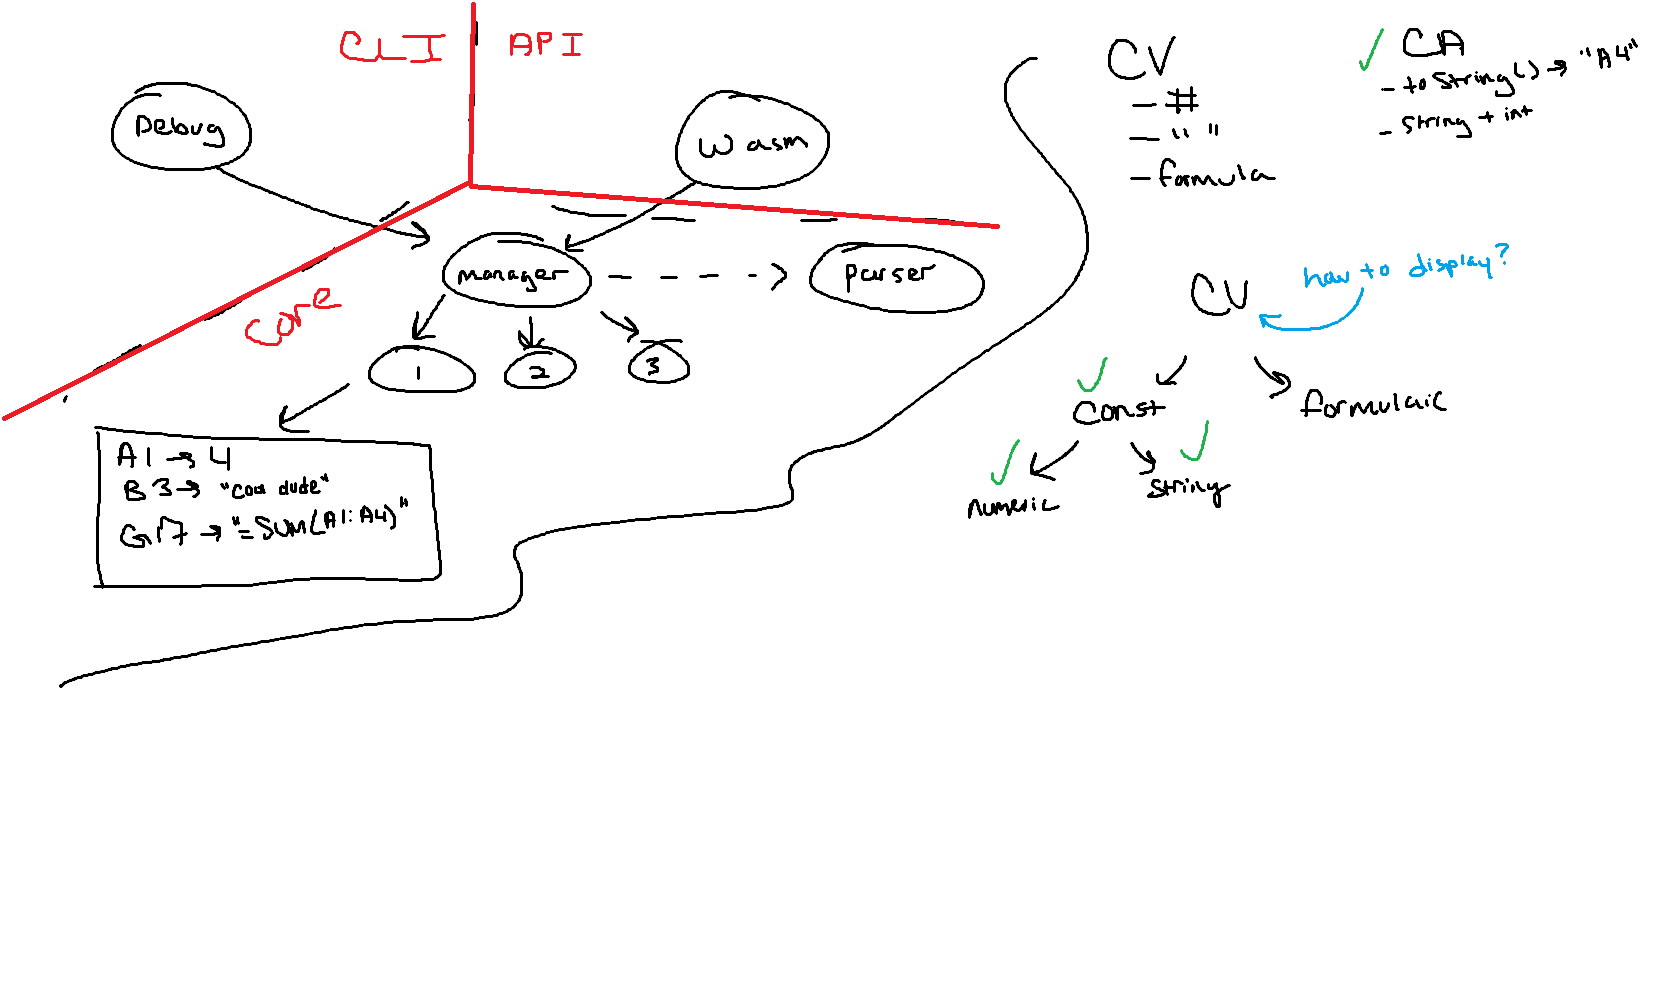
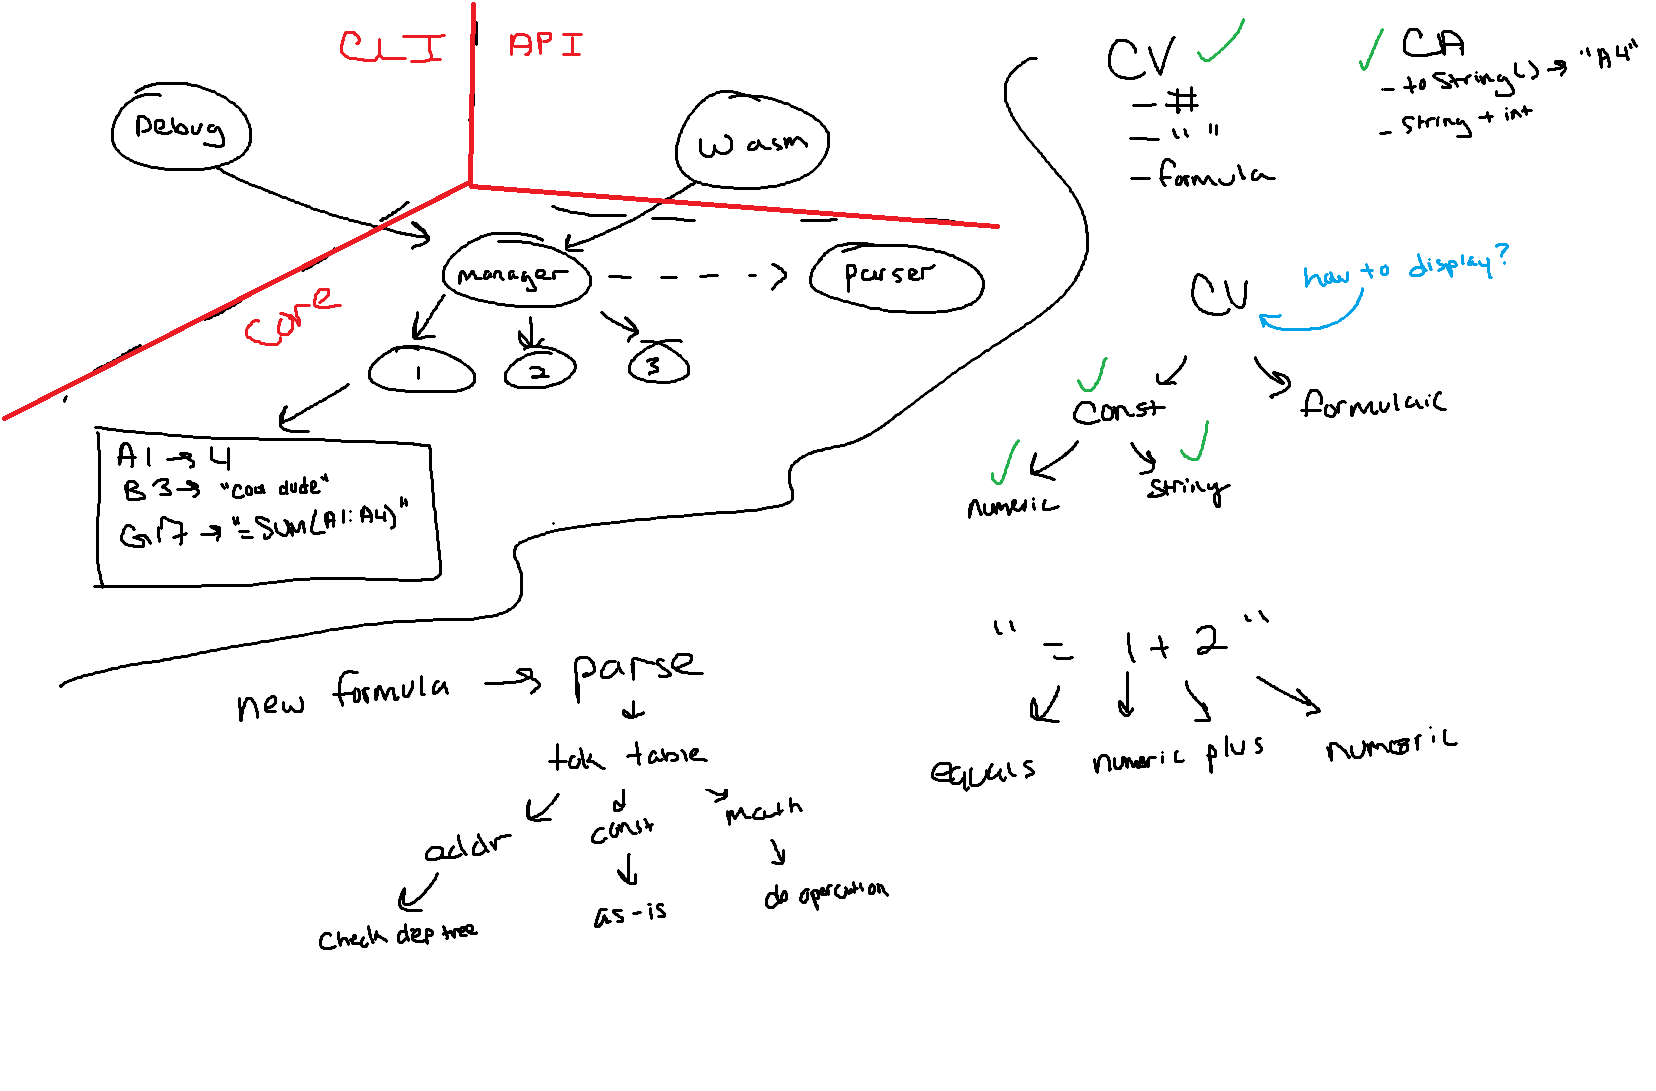
basic structure + design

diff --git a/src/parser/tokens/Token.h b/src/parser/tokens/Token.h
@@ -1,0 +1,22 @@
+#include "TokenType.h"
+
+#include <variant>
+#include <string>
+
+namespace Parser {
+
+	class Token {
+
+	public:
+		Token();
+
+		TokenType getType();
+		std::variant<std::string, double> getValue();
+
+	private:
+		TokenType m_type;
+		std::variant<std::string, double> m_value;
+
+	};
+
+}

diff --git a/src/parser/tokens/TokenType.h b/src/parser/tokens/TokenType.h
@@ -1,0 +1,11 @@
+#pragma once
+
+enum class TokenType {
+	Equals, // signifies the beginning of a formula
+	
+	// Tokens which are dynamic size
+	Numeric, // numbers like 1, 1.0, 1.235, -1
+	String, // any character or series of characters
+	
+	Plus, // addition operator
+};

diff --git a/src/parser/Parser.cpp b/src/parser/Parser.cpp
@@ -1,0 +1,16 @@
+#include "Parser.h"
+
+#include "../core/cell/types/NumericValue.h"
+
+namespace Parser {
+
+	Parser::Parser() {};
+
+	Cell::ConstantValue& Parser::evaluate(const Spreadsheet::Formula& formula) {
+
+		Cell::NumericValue val(0);
+		return val;
+
+	}
+
+}

diff --git a/src/parser/Parser.h b/src/parser/Parser.h
@@ -1,0 +1,16 @@
+#pragma once
+#include "../core/Formula.h"
+#include "../core/cell/ConstantValue.h"
+
+namespace Parser {
+
+	class Parser {
+
+	public:		
+		Parser();
+
+		Cell::ConstantValue& evaluate(const Spreadsheet::Formula& formula);
+
+	};
+
+}

diff --git a/src/parser/tokens/Token.cpp b/src/parser/tokens/Token.cpp
@@ -1,0 +1,14 @@
+#include "Token.h"
+
+namespace Parser {
+
+	Token::Token() {};
+
+	TokenType Token::getType() {
+		return m_type;
+	}
+
+	std::variant<std::string, double> Token::getValue() {
+		return m_value;
+	}
+}
